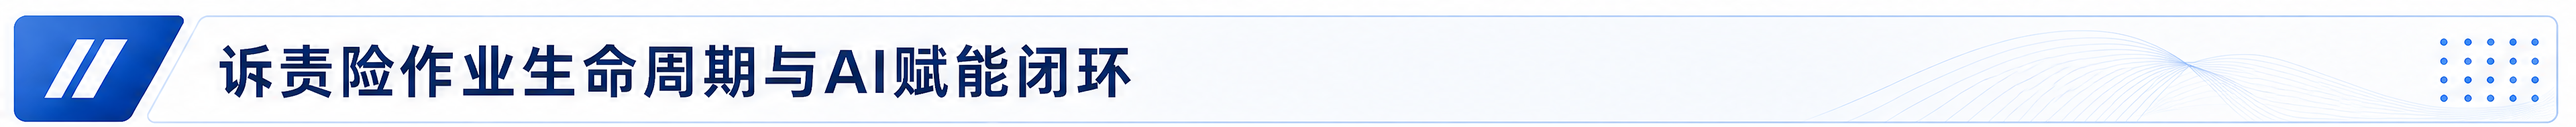
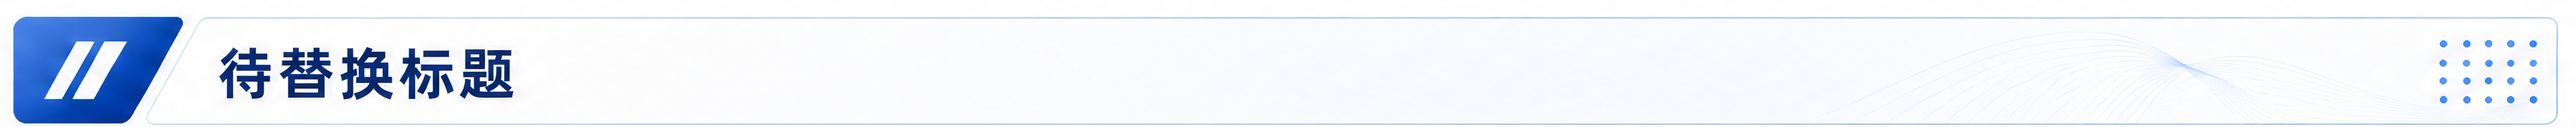
标题栏优化

diff --git a/ppt-produce-bycodex/references/ppt-production-guide.md b/ppt-produce-bycodex/references/ppt-production-guide.md
@@ -211,6 +211,9 @@ PPTX 只做一件事：
 - 第一轮样张应生成 3-5 页，并同步呈现/确认主标题栏样式。
 - 可以提示用户是否希望更换标题栏样式；如果用户没有更换诉求，使用默认样板。
 - 标题栏样板确认后，所有正常内容页必须使用同一份主标题栏样式生成。
+- 标题栏必须只有一行标题文字，禁止出现两行或多行标题。
+- 单行标题必须在标题栏垂直方向居中，不能偏上或偏下。
+- 如果标题过长，优先压缩文案、在既定样式内适度缩小字号，或请用户确认更短标题；禁止直接换行。
 - 封面、目录页、章节过渡页可以有适度变化，但普通内容页不要混用多个标题系统。
 - 技能内置标题栏来自一个历史项目，但作为通用样式资产使用，生成新项目时不得出现历史项目行业词或客户名。
 
@@ -347,6 +350,8 @@ FORBIDDEN VISIBLE TEXT:
 4. 检查 API、模型、网络、残留进程。
 5. 先生成 3-5 页关键样张，样张必须体现已确认标题栏样式。
 6. 检查风格、标题栏一致性、文字、尺寸、RGB、是否有页码。
+   - 标题栏必须只有一行标题文字，禁止多行标题。
+   - 标题栏文字必须垂直居中，不能偏上或偏下。
 7. 用户确认样式后，再分批生成。
 8. 每批保留 prompt、manifest、源图备份、staging 输出。
 9. 每批生成接触表做整体观感审核。
@@ -373,6 +378,8 @@ FORBIDDEN VISIBLE TEXT:
 - 无内部讨论或任务要求。
 - 无乱码、错字、别字。
 - 正常内容页使用同一份已确认主标题栏样板。
+- 标题栏只有一行标题文字，未出现换行、两行标题或多行标题。
+- 标题栏文字在垂直方向居中。
 - 标题/副标题没有把要求句照搬。
 - 内容与本页主题一致。
 - 主体布局没有漂移。

diff --git a/ppt-produce-bycodex/references/titlebar-template.md b/ppt-produce-bycodex/references/titlebar-template.md
@@ -26,6 +26,10 @@ The title bar is a compact pale blue-white enterprise header band:
 - Once confirmed, reuse the same main title-bar style on every normal content page.
 - Cover, directory, and section divider pages may vary, but normal content pages must stay consistent.
 - Replace only the main title text per page.
+- The title bar must contain exactly one line of title text.
+- Never wrap the title into two or more lines.
+- The single-line title must be vertically centered in the title bar.
+- If the title is too long, shorten the wording, reduce font size within the confirmed style, or ask the user for a shorter title; do not make a two-line title bar.
 - Do not copy any domain words from the source project that originally provided the asset.
 - If the user asks for a different title style, create and confirm a new title-bar reference before bulk generation.
 
@@ -39,5 +43,7 @@ Compact pale blue-white horizontal title band; left blue slanted emblem block wi
 Keep the title bar compact and consistent across normal content pages.
 Replace only the main title text with: "<PAGE_TITLE>".
 Use navy bold Chinese typography, left aligned, controlled size.
+Keep the title on exactly one line. Never wrap title text into two or more lines.
+Keep the title vertically centered within the title bar; not too high, not too low.
 No page number, no watermark, no logo, no industry-specific text copied from reference assets.
 ```

diff --git a/ppt-produce-bycodex/SKILL.md b/ppt-produce-bycodex/SKILL.md
@@ -57,6 +57,9 @@ For a new PPT drawing task, confirm the main title-bar style as part of the firs
 - Generate 3-5 representative sample pages before bulk production; the sample set must include normal content, dense diagram/screenshot, and at least one page using the title-bar reference.
 - After the user confirms the title-bar sample, use that same main title-bar style across all normal content pages.
 - Do not mix different content-page title systems unless the user explicitly asks for another style.
+- The title bar must contain exactly one line of title text. Never wrap the title into two or more lines.
+- The single-line title must be vertically centered within the title bar; do not place it too high or too low.
+- If a title is too long for one line, shorten the wording, reduce font size within the confirmed style, or ask the user to confirm a shorter title; do not create a multi-line title bar.
 - Use generic enterprise wording in prompts; do not copy industry-specific words from any reference project into new projects.
 - For cover, directory, and section divider pages, variation is allowed, but content pages must keep the confirmed title-bar system.
 
